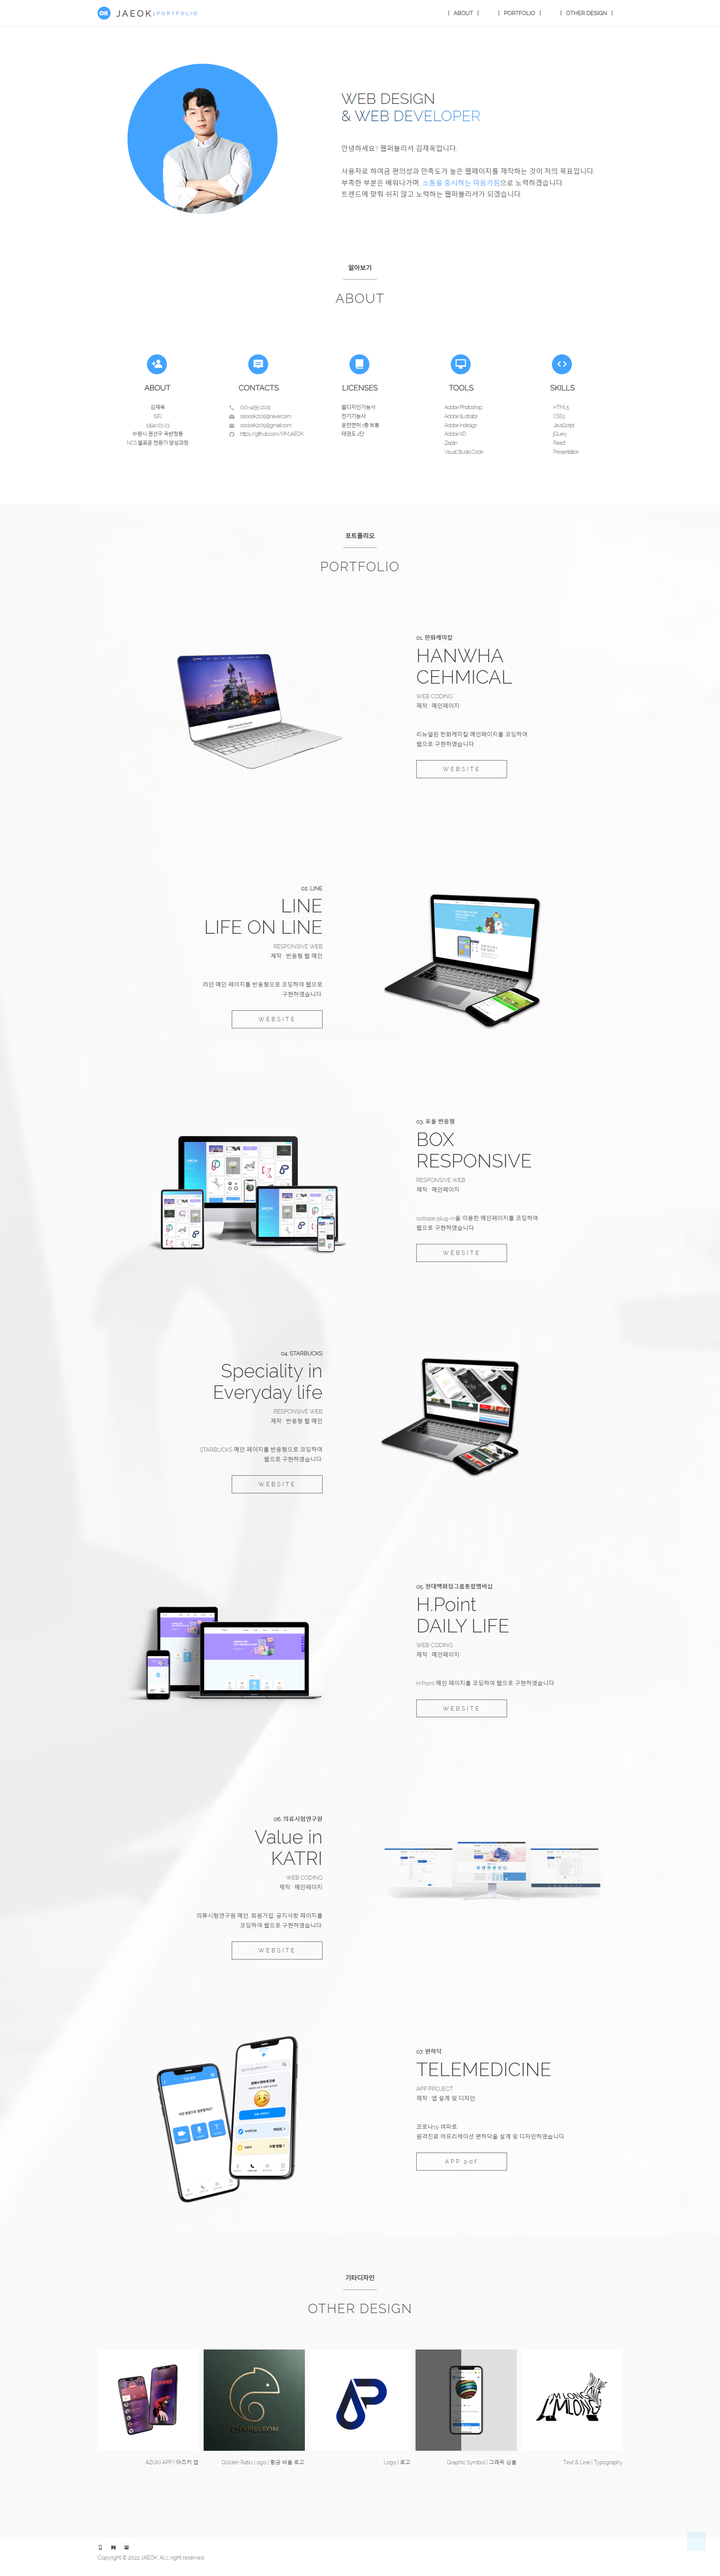
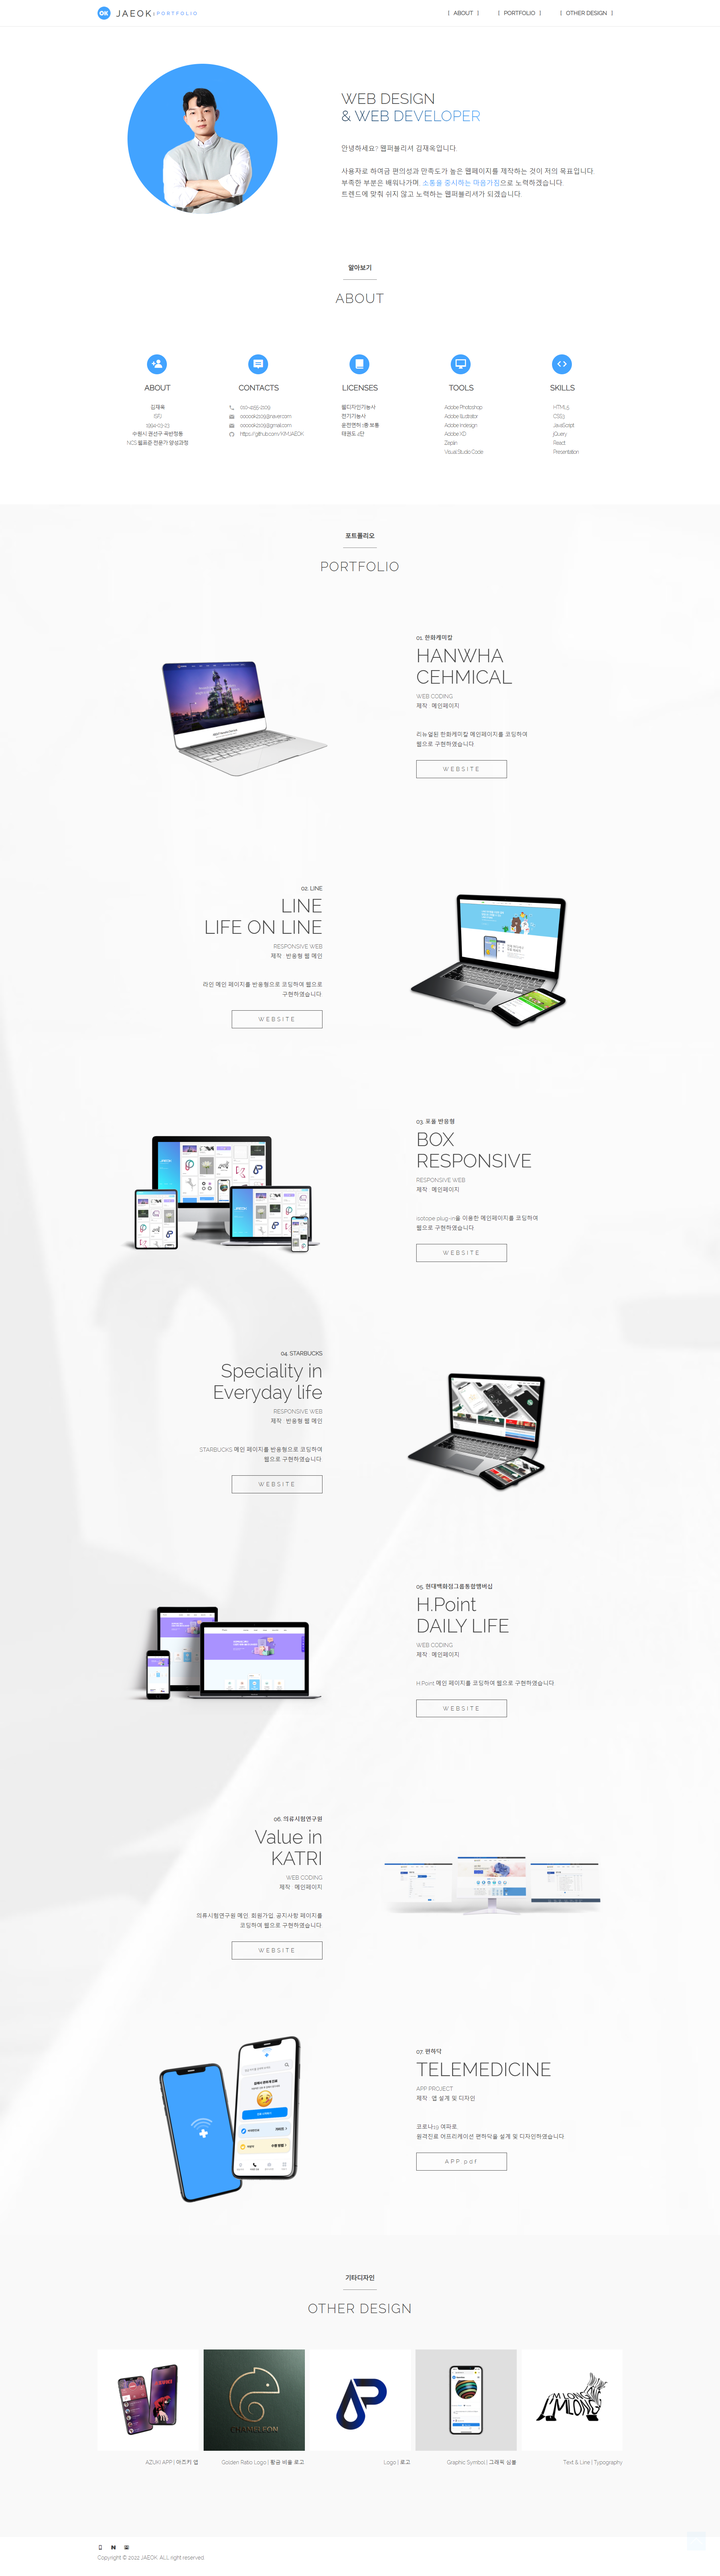
Add files via upload

diff --git a/css/style.css b/css/style.css
@@ -91,7 +91,7 @@ section#portfolio .portfolio_main dl dt{width: 700px; height: 620px;}
     
 /* pf_01 */
 .portfolio_main dl:nth-child(1) {position: relative;}
-.portfolio_main dl:nth-child(1) dt {background: url("../images/pf1.png") no-repeat 120px 70px; background-size: 85%;}
+.portfolio_main dl:nth-child(1) dt {background: url("../images/pf1.png") no-repeat 80px 90px; background-size: 85%;}
 .portfolio_main dl:nth-child(1) dd {position: absolute; top: 100px; right: 100px; width: 450px;}
 .portfolio_main dl:nth-child(1) dd h4 {font-size: 15px; margin-bottom: 10px;}
 .portfolio_main dl:nth-child(1) dd h5 {font-size: 50px; margin-bottom: 10px; font-weight: 100;}
@@ -101,7 +101,7 @@ section#portfolio .portfolio_main dl dt{width: 700px; height: 620px;}
 
 /* pf_02 */
 .portfolio_main dl:nth-child(2) {position: relative;}
-.portfolio_main dl:nth-child(2) dt {background: url("../images/pf2.png") no-repeat 0 150px; background-size: 85%; float: right;}
+.portfolio_main dl:nth-child(2) dt {background: url("../images/pf2.png") no-repeat 70px 150px; background-size: 85%; float: right;}
 .portfolio_main dl:nth-child(2) dd {position: absolute; top: 100px; left: 100px;width: 450px; margin-top: 50px; margin-left: 50px; text-align: right;}
 .portfolio_main dl:nth-child(2) dd h4 {font-size: 15px; margin-bottom: 10px;}
 .portfolio_main dl:nth-child(2) dd h5 {font-size: 50px; margin-bottom: 10px; font-weight: 100;}
@@ -111,7 +111,7 @@ section#portfolio .portfolio_main dl dt{width: 700px; height: 620px;}
 
 /* pf-03 */
 #wrap section#portfolio .portfolio_main dl:nth-child(3) {position: relative;clear: both;}
-#wrap section#portfolio .portfolio_main dl:nth-child(3) dt {background: url("../images/pf3.png") no-repeat 120px 160px; background-size: 80%;}
+#wrap section#portfolio .portfolio_main dl:nth-child(3) dt {background: url("../images/pf3.png") no-repeat 50px 160px; background-size: 80%;}
 #wrap section#portfolio .portfolio_main dl:nth-child(3) dd {position: absolute; top: 100px; right: 100px;width: 450px; margin-top: 50px; margin-left: 50px;}
 #wrap section#portfolio .portfolio_main dl:nth-child(3) dd h4 {font-size: 15px; margin-bottom: 10px;}
 #wrap section#portfolio .portfolio_main dl:nth-child(3) dd h5 {font-size: 50px; margin-bottom: 10px; font-weight: 100;}
@@ -121,7 +121,7 @@ section#portfolio .portfolio_main dl dt{width: 700px; height: 620px;}
 
 /* pf-04 */
 #wrap section#portfolio .portfolio_main dl:nth-child(4) {position: relative;}
-#wrap section#portfolio .portfolio_main dl:nth-child(4) dt {background: url("../images/pf4.png") no-repeat 0 150px; background-size: 75%; float: right;}
+#wrap section#portfolio .portfolio_main dl:nth-child(4) dt {background: url("../images/pf4.png") no-repeat 70px 190px; background-size: 75%; float: right;}
 #wrap section#portfolio .portfolio_main dl:nth-child(4) dd {position: absolute; top: 100px; left: 100px;width: 450px; margin-top: 50px; margin-left: 50px; text-align: right;}
 #wrap section#portfolio .portfolio_main dl:nth-child(4) dd h4 {font-size: 15px; margin-bottom: 10px;}
 #wrap section#portfolio .portfolio_main dl:nth-child(4) dd h5 {font-size: 50px; margin-bottom: 10px; font-weight: 100;} 
@@ -141,7 +141,7 @@ section#portfolio .portfolio_main dl dt{width: 700px; height: 620px;}
 
 /* pf-06 */
 #wrap section#portfolio .portfolio_main dl:nth-child(6) {position: relative;}
-#wrap section#portfolio .portfolio_main dl:nth-child(6) dt {background: url("../images/pf6.png") no-repeat center 100px; background-size: 95%; float: right;}
+#wrap section#portfolio .portfolio_main dl:nth-child(6) dt {background: url("../images/pf6.png") no-repeat center 140px; background-size: 95%; float: right;}
 #wrap section#portfolio .portfolio_main dl:nth-child(6) dd {position: absolute; top: 100px; left: 100px;width: 450px; margin-top: 50px; margin-left: 50px; text-align: right;}
 #wrap section#portfolio .portfolio_main dl:nth-child(6) dd h4 {font-size: 15px; margin-bottom: 10px;}
 #wrap section#portfolio .portfolio_main dl:nth-child(6) dd h5 {font-size: 50px; margin-bottom: 10px; font-weight: 100;}
@@ -151,7 +151,7 @@ section#portfolio .portfolio_main dl dt{width: 700px; height: 620px;}
 
 /* pf-07 */
 #wrap section#portfolio .portfolio_main dl:nth-child(7) {position: relative;clear: both;}
-#wrap section#portfolio .portfolio_main dl:nth-child(7) dt {background: url("../images/pf7.png") no-repeat center 100px; background-size: 85%;}
+#wrap section#portfolio .portfolio_main dl:nth-child(7) dt {background: url("../images/pf7.png") no-repeat 60px 100px; background-size: 85%;}
 #wrap section#portfolio .portfolio_main dl:nth-child(7) dd {position: absolute; top: 100px; right: 100px;width: 450px; margin-top: 50px; margin-left: 50px;}
 #wrap section#portfolio .portfolio_main dl:nth-child(7) dd h4 {font-size: 15px; margin-bottom: 10px;}
 #wrap section#portfolio .portfolio_main dl:nth-child(7) dd h5 {font-size: 50px; margin-bottom: 10px; font-weight: 100;}
